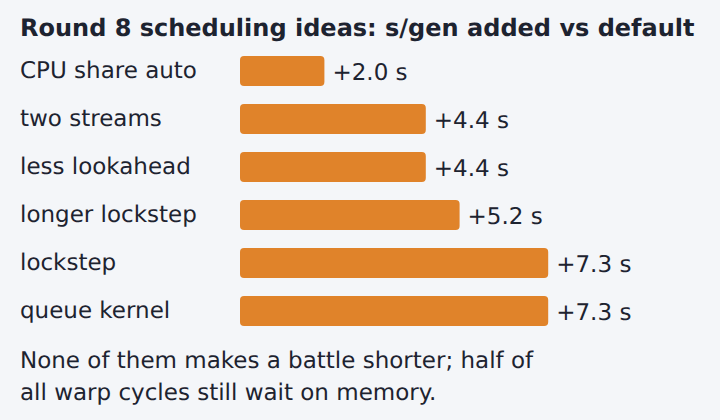
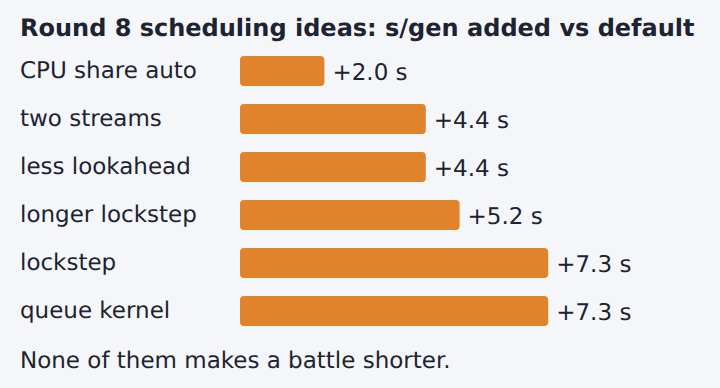
gpu round 9: page fixes from check round 10 (same-results checks name their runs, unsupported scheduling stall claim cut, study vs halving rounds named)
Claude-Session: https://claude.ai/code/session_01Ws3K6hiVf42Evxx3QjPVsr

diff --git a/docs/gpu-round9-explained.md b/docs/gpu-round9-explained.md
@@ -1,9 +1,9 @@
 # GPU round 9, explained 🧭
 
-Five ideas behind GPU rounds 8 and 9, one picture each. Sources: `out/gpu-study.html` and `out/gpu/study/` (branch `gpu`).
+Five ideas from GPU study rounds 7-9, one picture each. Sources: `out/gpu-study.html` and `out/gpu/study/` (branch `gpu`).
 
 ## Terms
-- **Generation:** one step of the team search; its **halving rounds** each cut the bottom half of teams.
+- **Generation:** one step of the team search; its **halving rounds** each cut the bottom half. **Round 7-9:** study rounds.
 - **SM:** one of the GPU's 68 cores. A **warp** is 32 threads it runs together.
 - **Registers, shared memory:** small, fast storage on an SM. **L1, L2:** caches between the SMs and GPU main memory.
 - **Launch:** one batch of battles sent to the GPU; it ends with its last battle. A **stream** is a queue of GPU work.
@@ -31,7 +31,7 @@ Local memory is GPU main memory, behind L1 and L2. Nsight Compute shows half of 
 
 Round 8's compact state packs fields into 8 and 16 bits. It saved 0.5 s per generation in an A/B of 3 runs each.
 
-## Why the scheduling ideas ran slower
+## Each scheduling idea added time
 
 ![Six round-8 scheduling ideas each added 2.0 to 7.3 s per generation](gpu-r9-scheduling.png)
 
